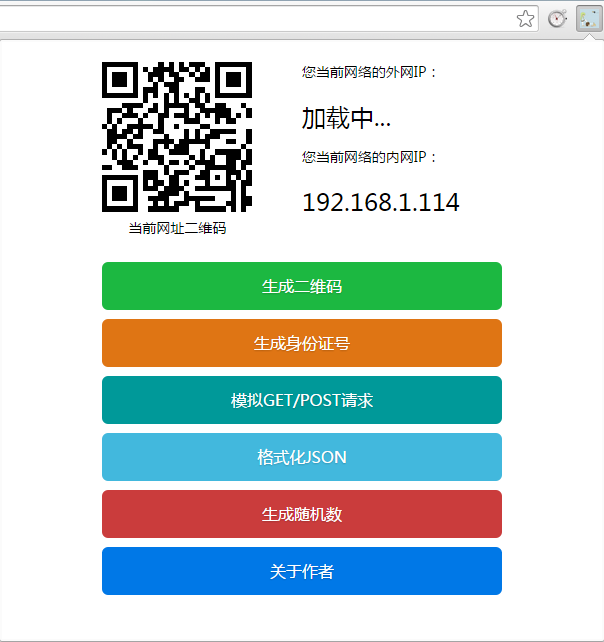
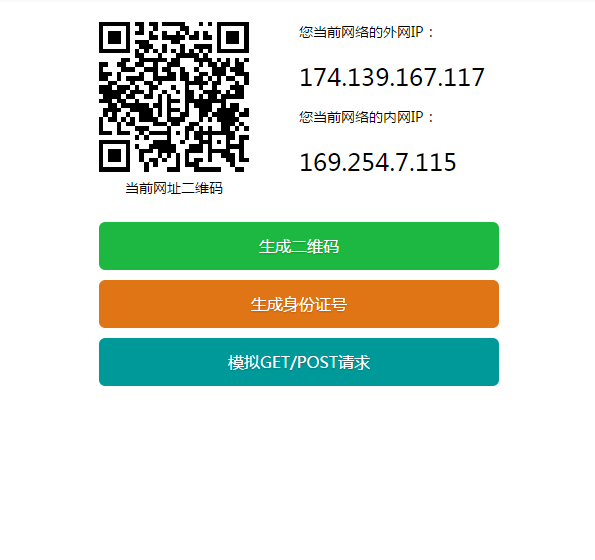
v1.2.1

diff --git a/extension-tools/background.js b/extension-tools/background.js
@@ -1,9 +1,28 @@
-
+/********************************************************
+ ************************ 公共代码 **********************
+ ********************************************************/
+
+/*
+ * add by yzChen  2016-5-30 13:07:37  desc: 复制文本
+ */
+function _copy(str) {
+    document.oncopy = function(event) {
+        event.clipboardData.setData("Text", str);
+        event.preventDefault();
+    };
+    document.execCommand("Copy");
+}
+
+
 /********************************************************
  ************************ 右键菜单 **********************
  ********************************************************/
- /*
-// 点击事件
+
+/* add by yzChen  2016-5-29 09:41:48  desc: 初始化时先清空菜单，避免用户刷新页面时，重复创建菜单 */
+chrome.contextMenus.removeAll(function(){});
+
+/*  -- demno --
+ // 点击事件
 function genericOnClick(info, tab) {
   var content = JSON.stringify(info);
   var pageBasic = JSON.stringify(tab);
@@ -12,16 +31,6 @@ function genericOnClick(info, tab) {
   // 文本
   if(null != info.selectionText) {
     console.log("选中内容：" + info.selectionText);
-	// 异步发送消息到服务器
-	var xhr = new XMLHttpRequest();
-	xhr.open("POST", "http://localhost:8080", true);
-	xhr.setRequestHeader("Content-Type","application/x-www-form-urlencoded");
-	xhr.onreadystatechange = function() {
-	  if (xhr.readyState == 4) {
-		var resp = JSON.parse(xhr.responseText);
-	  }
-	}
-	xhr.send("name="+encodeURI(info.selectionText));
   }
 }
 
@@ -32,35 +41,52 @@ var titles = ["页面","选择内容","链接","editable","图片","video","audi
 for (var i = 0; i < contexts.length; i++) {
   var context = contexts[i];
   var title = titles[i];
-  var id = chrome.contextMenus.create({"title": title, "contexts":[context],
-                                       "onclick": genericOnClick});
+  var id = chrome.contextMenus.create({"title":title, "contexts":[context], "onclick": genericOnClick});
   console.log("类型：'" + context + "', ID: " + id);
 }
 */
 
+/**************************************************************
+ ************************ 来一个身份证号 **********************
+ **************************************************************/
+ function to18(str17){
+	var num = 0;
+	var wei;
+	var xis;
+	var jmod = 0;
+	for (var i=1;i<=17;i++){
+		wei = Number(strsub(str17,i));
+		xis = Math.pow(2,18-i) % 11;
+		num = num + (wei*xis)
+	}
+	jmod = num % 11;
+	switch (jmod){
+		case 0:	restr = '1'; break;
+		case 1: restr = '0'; break;
+		case 2: restr = 'X'; break;
+		case 3: restr = '9'; break;
+		case 4: restr = '8'; break;
+		case 5: restr = '7'; break;
+		case 6: restr = '6'; break;
+		case 7: restr = '5'; break;
+		case 8: restr = '4'; break;
+		case 9: restr = '3'; break;
+		case 10: restr = '2'; break;
+	}
+	return str17 + restr;
+}
+function getRandom(m,n){
+	return Math.round((Math.random()*(n-m)+m))
+}
+function strsub(str,i){
+	return str.substr(i-1,1)
+}
 
-/********************************************************
- ************************ 弹窗界面 **********************
- ********************************************************/
-
-
-
-
-
-
-
-
-
-
-
-
-
-
-
-
-
-
-
-
-
-
+function writeIdcard(info, tab) {
+    // 北京市东城区 - 随机生日 - 随机4位数
+    _idcard = to18('110101' + '19' + getRandom(45,90) + getRandom(1,12) + getRandom(1,28) + getRandom(100,999));
+    // 加入到剪贴板
+    _copy(_idcard);
+}
+chrome.contextMenus.create({"title": "玛尼玛尼哄！让俺Ctrl+V就有个测试的身份证号吧！！", "contexts":["page"], "onclick": writeIdcard});
+chrome.contextMenus.create({"title": "玛尼玛尼哄！让俺Ctrl+V就有个测试的身份证号吧！！", "contexts":["editable"], "onclick": writeIdcard});

diff --git a/extension-tools/page/page.js b/extension-tools/page/page.js
@@ -68,30 +68,35 @@ document.getElementById('qrcode_url').onkeypress = function(e){
 /*
  * chrome加载时获取网页地址
  */
-chrome.windows.getCurrent(function(win){
-	chrome.tabs.getSelected(function(tab){
+ if(!chrome.windows) {
+	 qrcode1.makeCode(window.location.href);
+	 document.getElementById('show_qrcode1').className = 'show-qrcode1-img';
+ } else {
+	chrome.windows.getCurrent(function(win){
+		chrome.tabs.getSelected(function(tab){
+			
+			qrcode1.makeCode(tab.url);
+			document.getElementById('show_qrcode1').className = 'show-qrcode1-img';
 
-		qrcode1.makeCode(tab.url);
-		document.getElementById('show_qrcode1').className = 'show-qrcode1-img';
+			if(tab.favIconUrl){
+				img = new Image();
+				img.src = tab.favIconUrl;
+				img.onload=function(){
+					// 按照网站的favIcon大小格式
+					//var _x = img.width,_y = img.height,_w=img.width,_h=img.height;
+					// 固定favIcon大小格式
+					var _x = img.width,_y = img.height,_w=32,_h=32,width=0,height=0;
 
-		if(tab.favIconUrl){
-			img = new Image();
-			img.src = tab.favIconUrl;
-			img.onload=function(){
-				// 按照网站的favIcon大小格式
-				//var _x = img.width,_y = img.height,_w=img.width,_h=img.height;
-				// 固定favIcon大小格式
-				var _x = img.width,_y = img.height,_w=32,_h=32,width=0,height=0;
-
-				width = _w == _w ? parseInt(qrcodeWidth)-_x : _w > _x ? parseInt(qrcodeWidth)-_w-_x : parseInt(qrcodeWidth)+_w-_x;
-				height = _h == _y ? parseInt(qrcodeHeight)-_y : _h > _y ? parseInt(qrcodeHeight)-_h-_y : parseInt(qrcodeHeight)+_h-_y;
-				if(_x && _y){
-					drawImg(img,width/2,height/2,_w,_h)
+					width = _w == _w ? parseInt(qrcodeWidth)-_x : _w > _x ? parseInt(qrcodeWidth)-_w-_x : parseInt(qrcodeWidth)+_w-_x;
+					height = _h == _y ? parseInt(qrcodeHeight)-_y : _h > _y ? parseInt(qrcodeHeight)-_h-_y : parseInt(qrcodeHeight)+_h-_y;
+					if(_x && _y){
+						drawImg(img,width/2,height/2,_w,_h)
+					}
 				}
 			}
-		}
+		});
 	});
-});
+}
 
 //二维码图片嵌入icon图片
 function drawImg(img,x,y,width,height){

diff --git a/extension-tools/idcard/idcard.js b/extension-tools/idcard/idcard.js
@@ -167,7 +167,7 @@ PCAS.SetP = function(PCA) {
 };
 PCAS.SetC = function(PCA) {
     PI = PCA.SelP.selectedIndex;
-    PCA.SelC.length = 0;	
+    PCA.SelC.length = 0;
     for (i = 1; i < PCAC[PI].length; i++) {
 		PCACArr = PCAC[PI][i].split('-');
 		PCACT = PCACArr[1];
@@ -209,7 +209,7 @@ function loadY() {
 	for(var i=y; i>(y-100); i--){
 		ySelect.options.add(new Option(i,i));
 	}
-	
+
 	loadM();
 }
 function loadM() {
@@ -217,7 +217,7 @@ function loadM() {
 	for(var i=1; i<13; i++){
 		mSelect.options.add(new Option(i,i));
 	}
-	
+
 	loadD();
 }
 function loadD() {
@@ -243,7 +243,3 @@ dateLoad();
 // 添加监听事件
 ySelect.addEventListener('change',loadM,false);
 mSelect.addEventListener('change',loadD,false);
-
-
-
-

diff --git a/README.md b/README.md
@@ -6,10 +6,6 @@
 ## 功能截图
 ![](/png/home.png)
 ![](/png/qrcode.png)
-![](/png/randomstring.png)
 ![](/png/idcard.png)
-![](/png/formatjson.png)
-
-
-
-
+![](/png/httprequest.png)
+![](/png/right-menu-idcard.gif)
